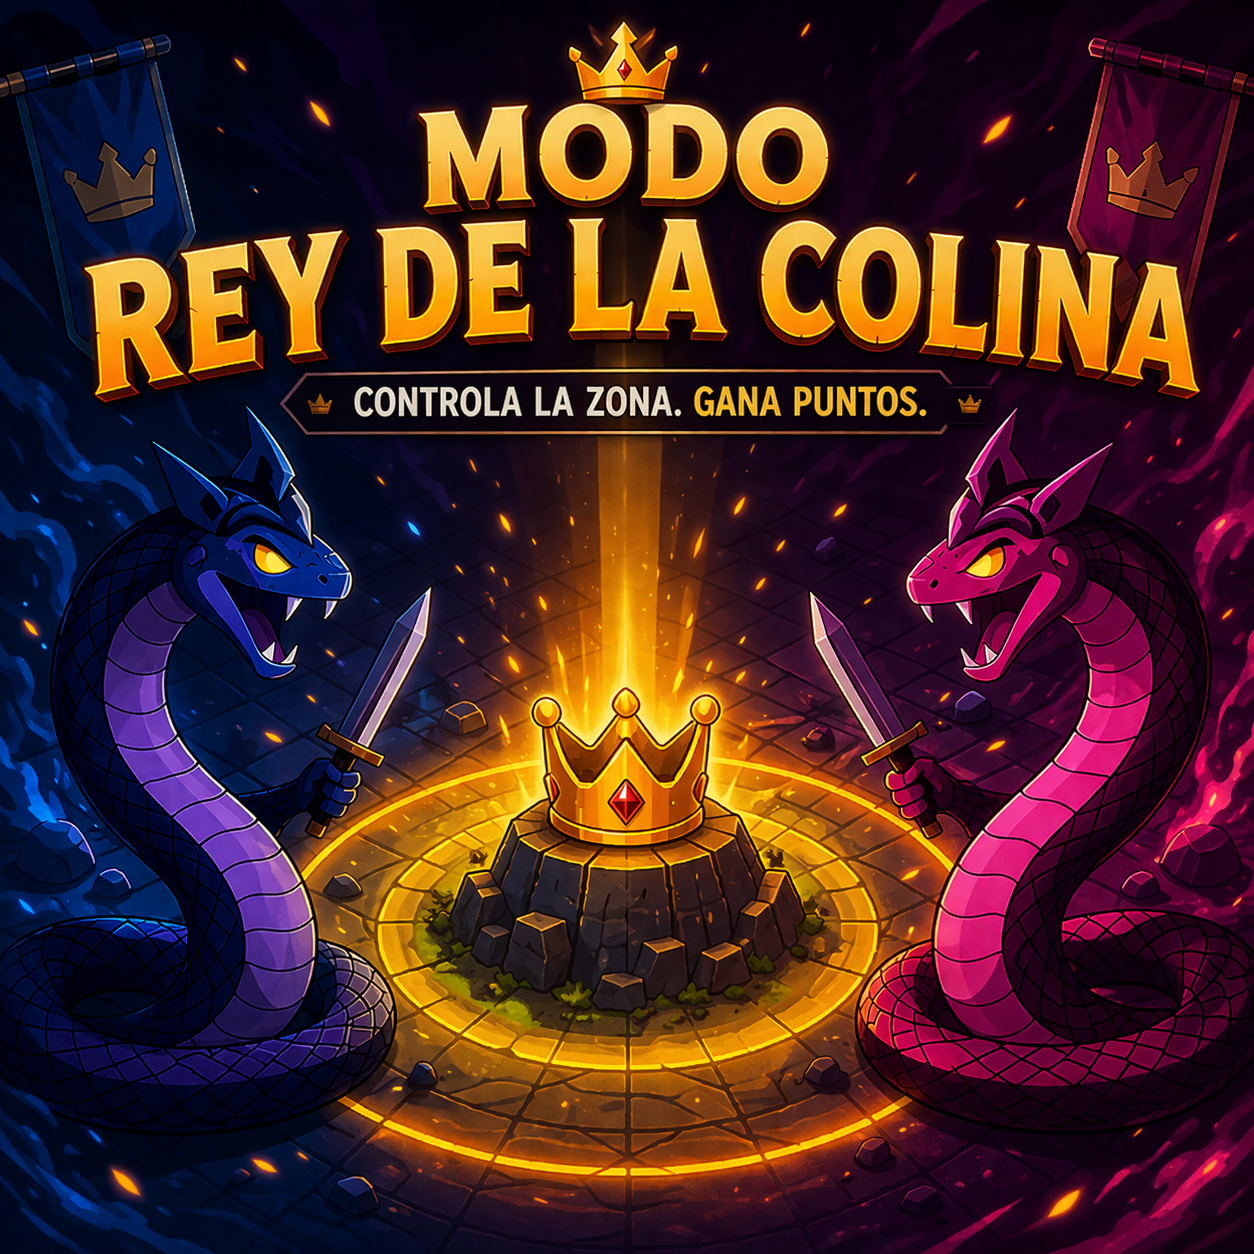
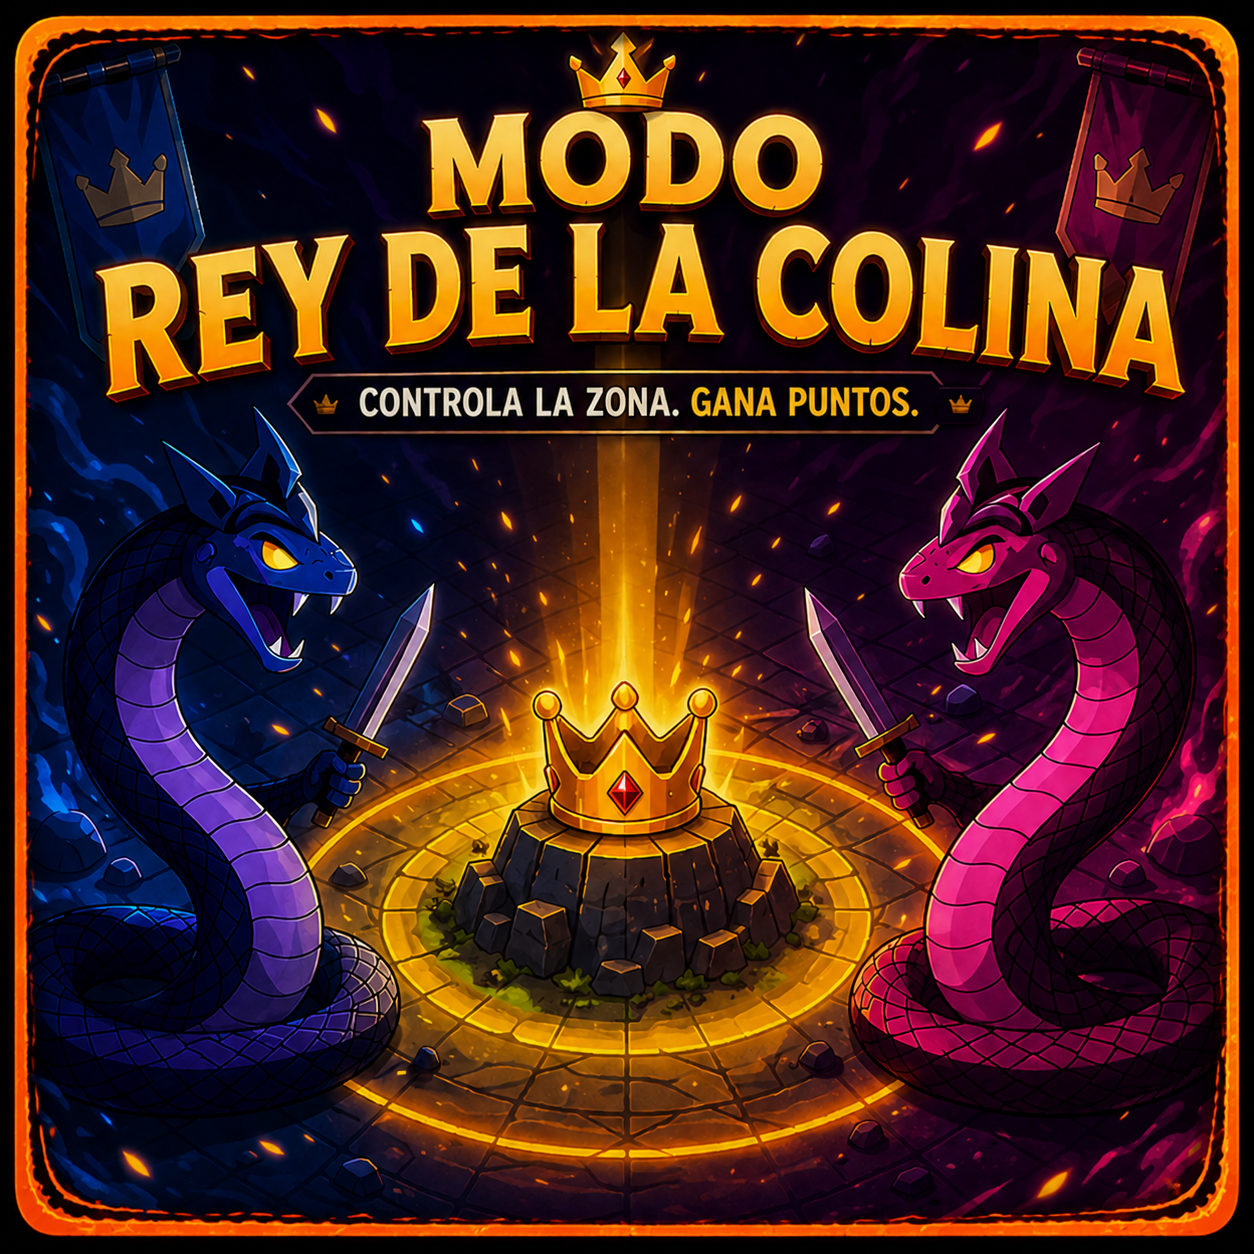
fix: new game mode assets added and fixed

diff --git a/frontend/src/scenes/LocalGameSetup.js b/frontend/src/scenes/LocalGameSetup.js
@@ -107,8 +107,8 @@ export class LocalGameSetup extends Phaser.Scene {
                 .mode-arrow:hover { transform: scale(1.04); background: rgba(255,255,255,0.1); border-color: rgba(246, 125, 49, 0.55); }
 
                 .mode-card { border-radius: 16px; overflow: hidden; border: 3px solid #F67D31; box-shadow: 0 18px 60px rgba(0,0,0,0.35); background: rgba(11, 8, 26, 1); }
-                .mode-card-img { height: 220px; background: #0B081A; position: relative; overflow: hidden; }
-                .mode-card-img img { width: 100%; height: 100%; object-fit: cover; opacity: 0.9; transform: scale(1.02); }
+                .mode-card-img { aspect-ratio: 16 / 9; min-height: 220px; background: radial-gradient(circle at center, rgba(29, 43, 88, 0.5), #0B081A 70%); position: relative; overflow: hidden; display: flex; align-items: center; justify-content: center; }
+                .mode-card-img img { width: 100%; height: 100%; object-fit: contain; object-position: center; opacity: 0.96; }
                 .mode-card-img::after { content: ""; position: absolute; inset: 0; background: linear-gradient(to top, rgba(12,18,42,1), rgba(12,18,42,0.15)); }
                 .mode-card-body { padding: 16px 16px 18px; background: rgba(12, 18, 42, 0.98); }
                 .mode-card-title { margin: 0 0 6px; color: white; font-weight: 900; letter-spacing: 1px; text-transform: uppercase; font-family: 'Montserrat', sans-serif; }
@@ -371,14 +371,14 @@ export class LocalGameSetup extends Phaser.Scene {
                 id: 'classic',
                 title: 'CLÁSICO',
                 desc: 'Duelo 1 vs 1 con vidas y puntuación. El primero en ganar se lo lleva.',
-                img: '/fondo_duelo.png',
+                img: '/normal_game.png',
                 label: 'Clásico (1vs1)',
             },
             {
                 id: 'timeAttack',
                 title: 'CONTRARRELOJ',
                 desc: '1 minuto, vidas infinitas y Muerte súbita en empate.',
-                img: '/time_attack.jpg',
+                img: '/time_attack.png',
                 label: 'Contrarreloj',
             },
             {
